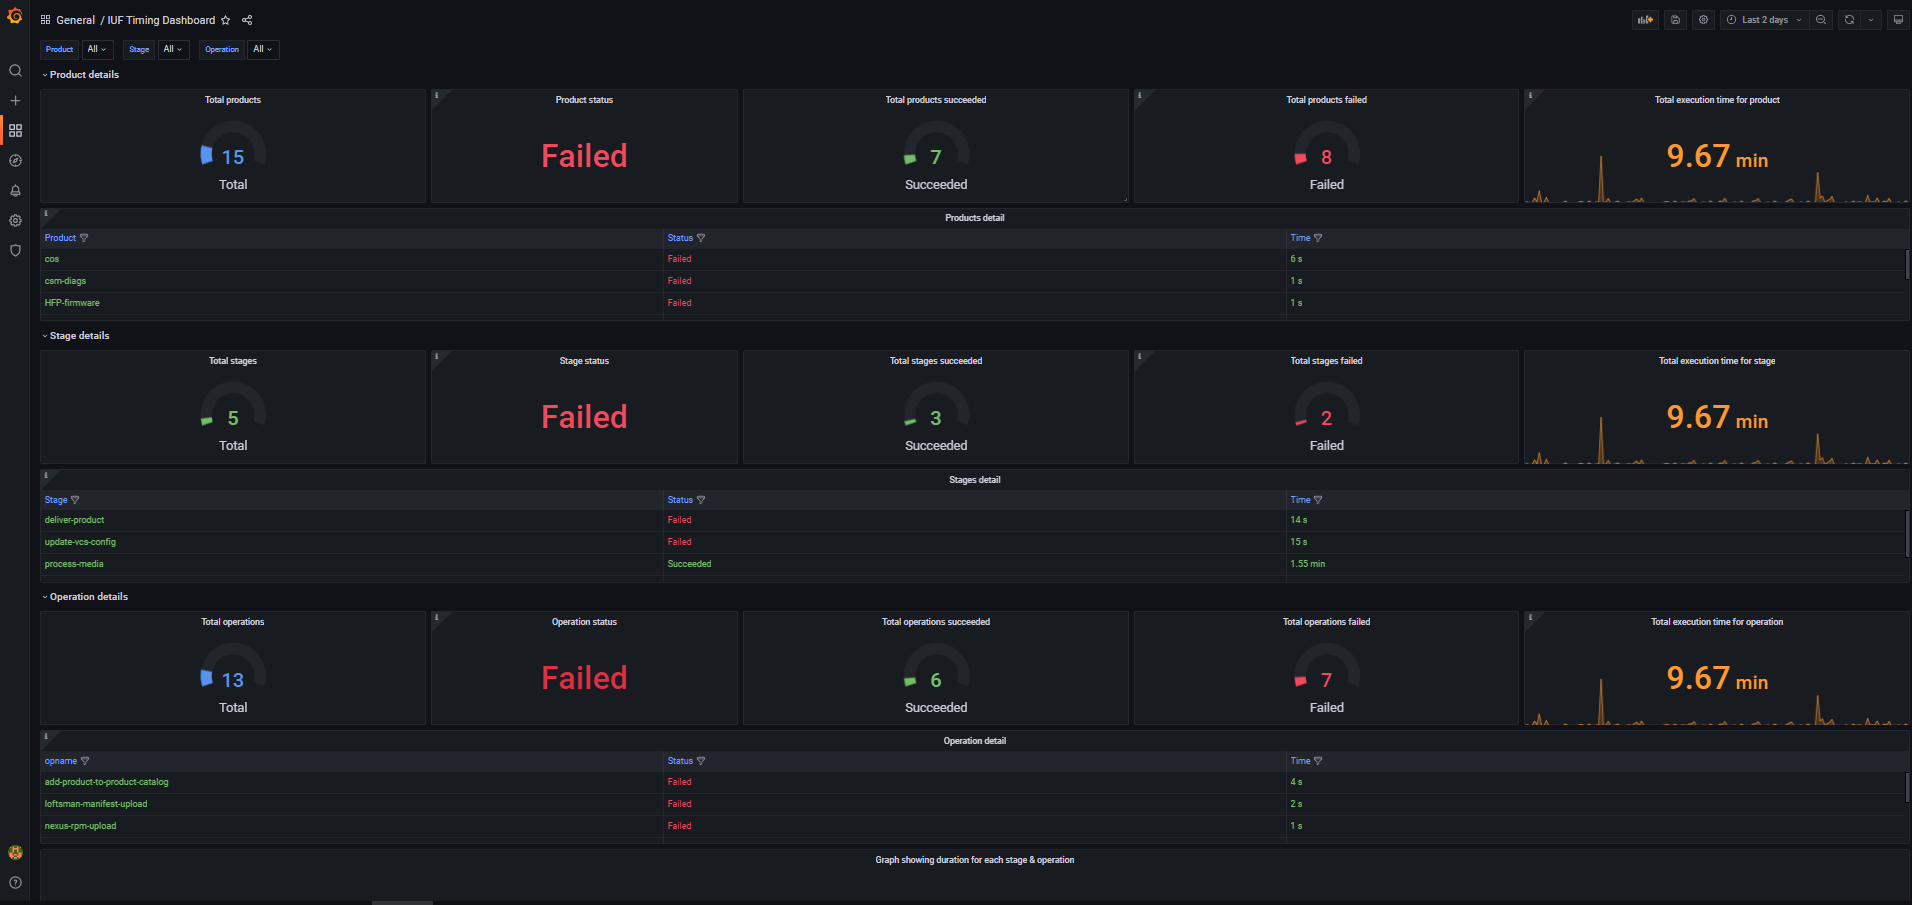
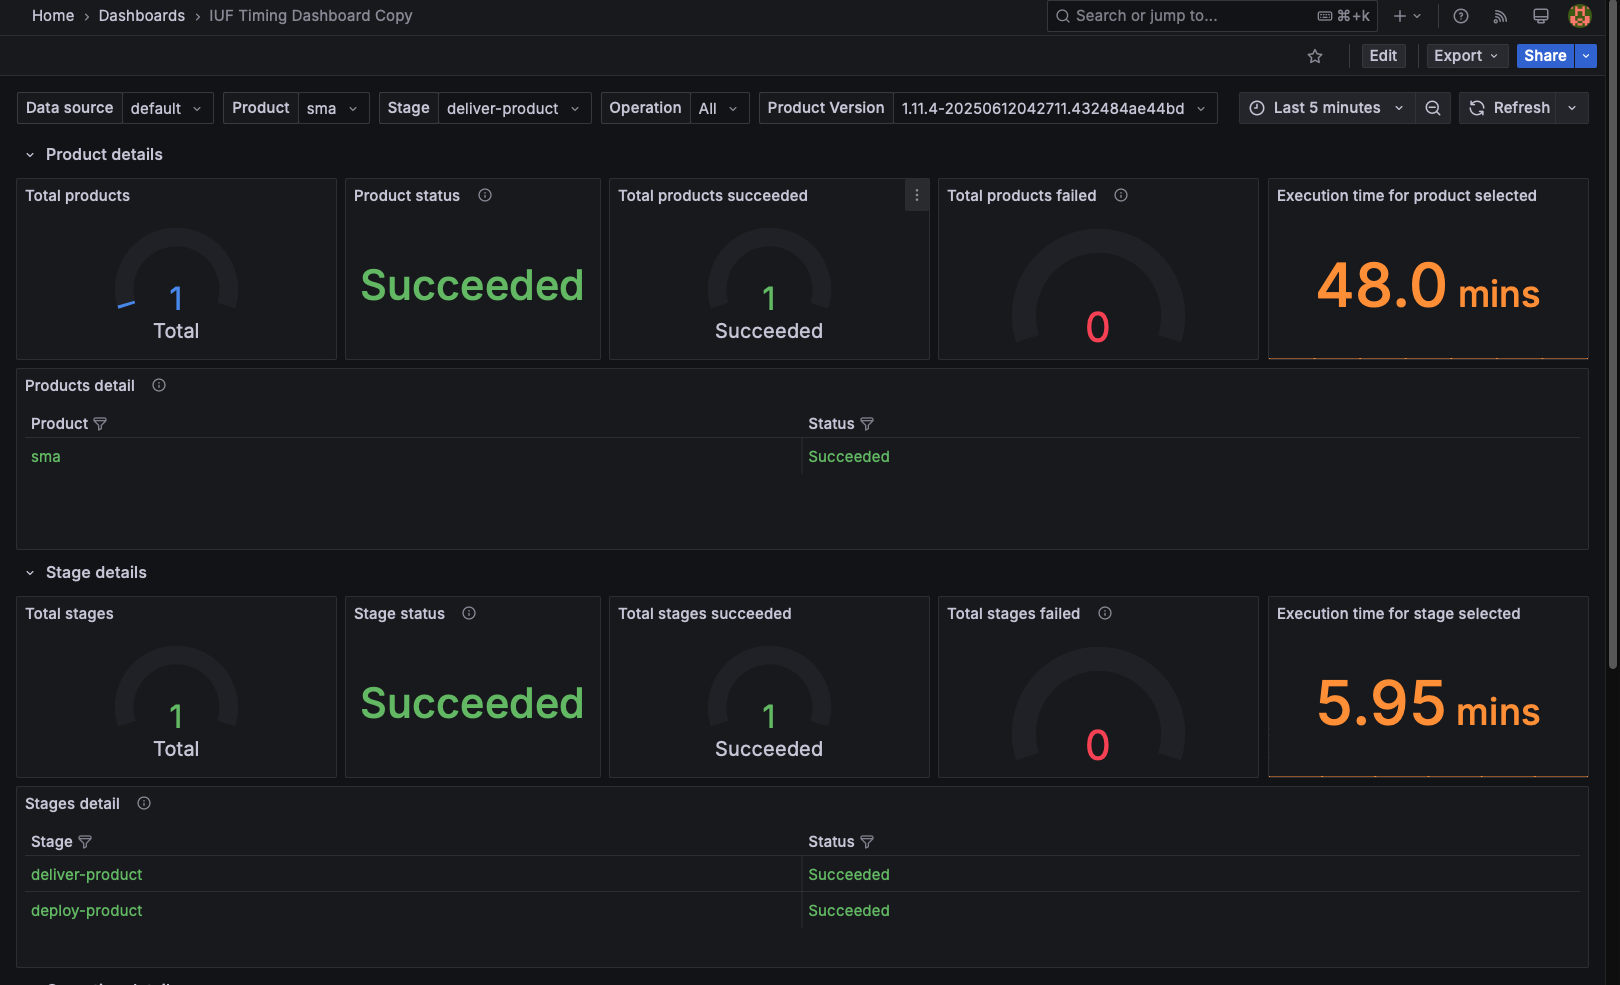
CASMMON-549 IUF Timing dashboard changes needs to be updated

diff --git a/operations/system_management_health/E1000_SMART_data_configuration.md b/operations/system_management_health/E1000_SMART_data_configuration.md
@@ -320,7 +320,7 @@ This procedure can be performed on any master or worker NCN.
          ```yaml
          listen_port: 9220
          timeout: 30
-         username: "abxyz"
+         username: "abcxyz"
          password: "Abcxyz@123"
          rf_port: 8081
          ```
